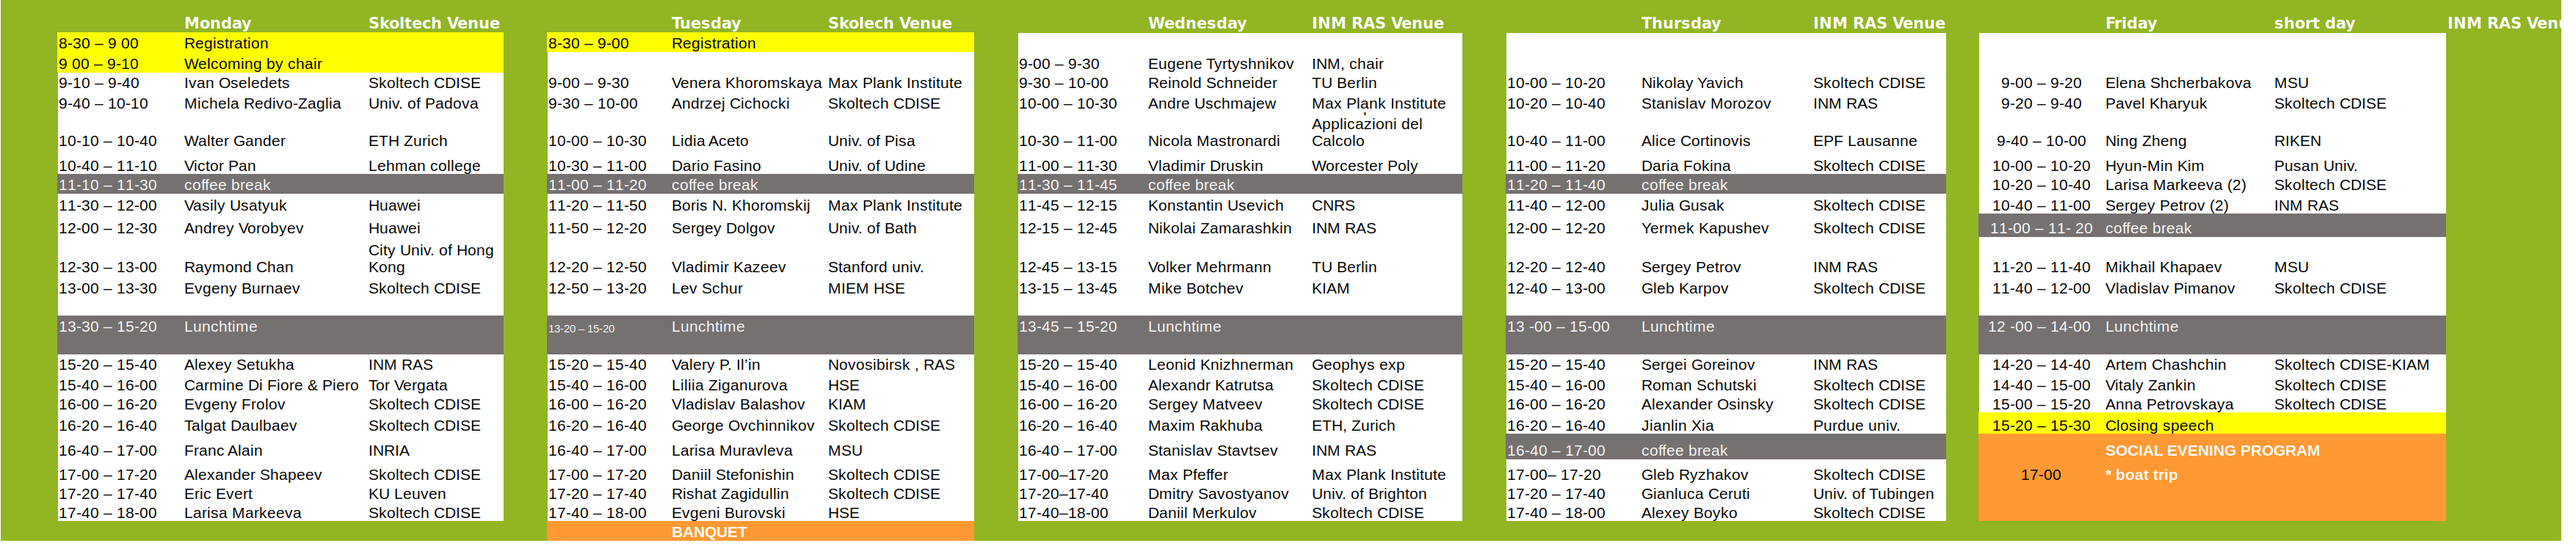
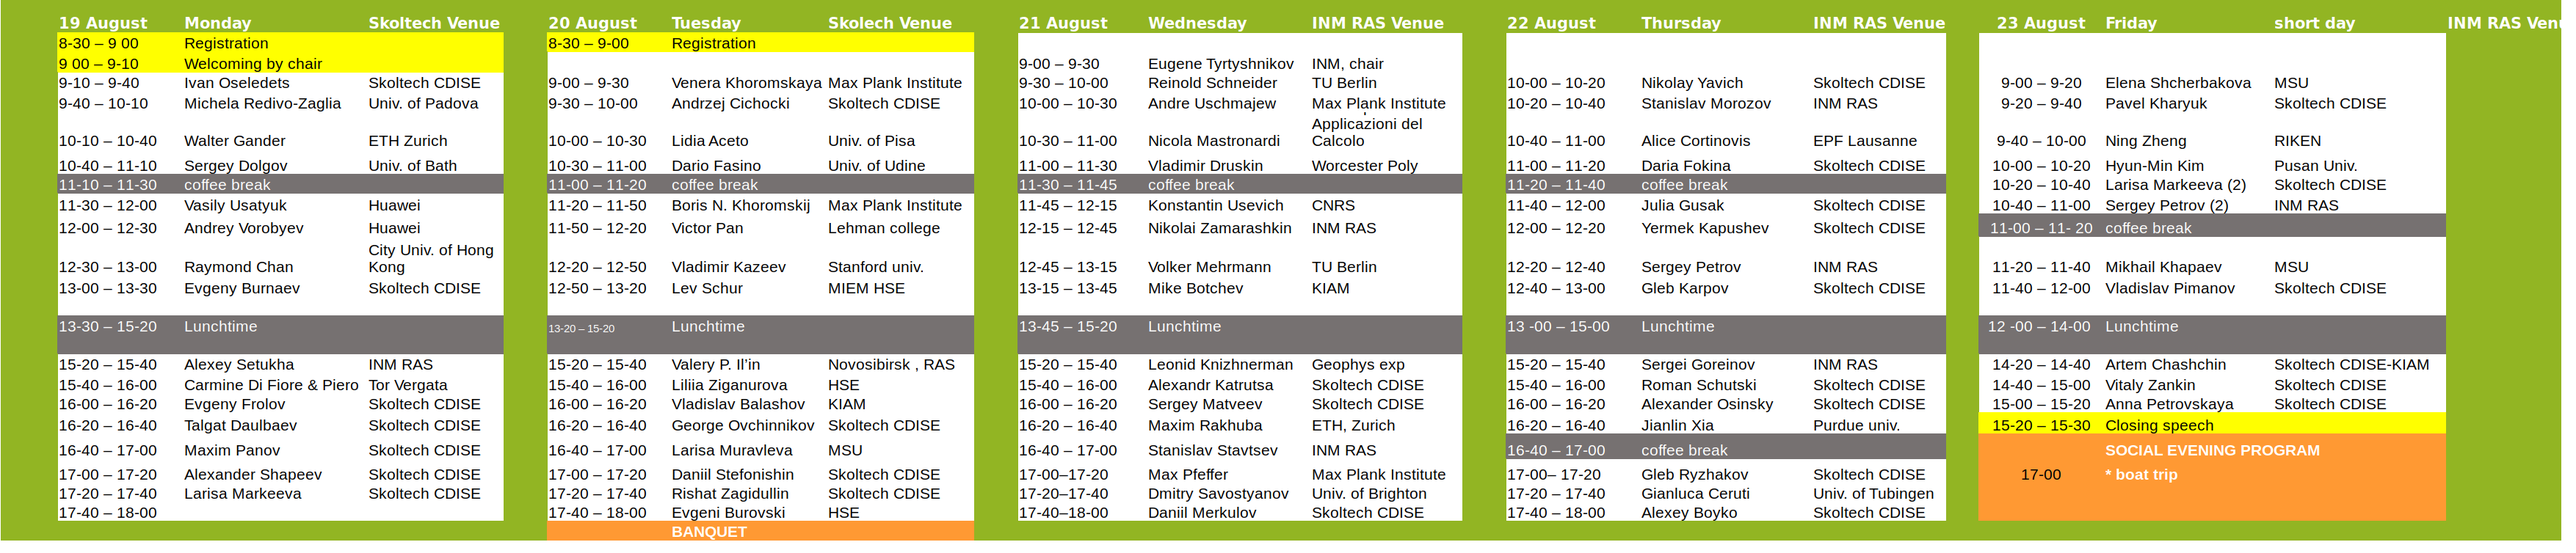
update schedule, find us

diff --git a/mmma-2019/find_us.html b/mmma-2019/find_us.html
@@ -56,9 +56,24 @@
           <p class="text-justify">We have organized for you buses that will take you for free straight to the New Skoltech Campus. Below is the scheme of the meeting point. The address is Kutuzovsky prospect, 38 (Borodinskaya Panorama). Each bus has a sign "Skoltech". Departure time is 9:30. Please do not be late! The buses will take you back to the city after the end of each workshop day according to the schedule.</p>
           <img class="w-100 mt-3 mb-2" src="assets/images/organized_transportation.jpg" alt="organized_transportation"> -->
           <p class="text-justify font-weight-light font-italic mt-5 pt-1">P.S.: Skoltechians can use bus station in the front of the 3 Nobel Street. Skoltech NEW CAMPUS can be reached by using shuttle bus №3.</p>
+          <h4 class="mt-4">Public transport to Skolkovo can be following:</h4>
+          <ul class="mt-5">
+            <li>Transfer buses from Radison-Ukraina depart at 7-30 AM</li>
+            <li>Bus 1147 from Troparevo metro station to Skolkovo innovation center, your stop is "Skoltekh"</li>
+            <li>SK-express from Slavyansky boulevard metro station to Skolkovo innovation center, your stop is "Technopack", then
+              local
+              free shuttle 5 until "Skoltekh" stop</li>
+            <li>Suburb train from Belorusky terminal or Begovaya metro station, your stop should be "Innovation center", then you
+              should
+              go to "Skolkovo Innovation center" direction (not "Trekhgorka") and find free local shuttle 5 until "Skoltekh" stop
+            </li>
+            <li>YandexTaxi and Uber to Skoltech campus can get inside territory of Innovation center. Unfortunately, other taxi
+              services
+              cannot pass inside.</li>
+          </ul>
         </div>
       </div>
-      <a href="https://ivan-kuzmin.github.io" id="signature" class="font-weight-light" target="_blank">Developed by Ivan Kuzmin</a>
+      <!-- <a href="https://ivan-kuzmin.github.io" id="signature" class="font-weight-light" target="_blank">Developed by Ivan Kuzmin</a> -->
     </div>
 
     <!-- Optional JavaScript -->

diff --git a/mmma2019/find_us.html b/mmma2019/find_us.html
@@ -56,9 +56,20 @@
           <p class="text-justify">We have organized for you buses that will take you for free straight to the New Skoltech Campus. Below is the scheme of the meeting point. The address is Kutuzovsky prospect, 38 (Borodinskaya Panorama). Each bus has a sign "Skoltech". Departure time is 9:30. Please do not be late! The buses will take you back to the city after the end of each workshop day according to the schedule.</p>
           <img class="w-100 mt-3 mb-2" src="assets/images/organized_transportation.jpg" alt="organized_transportation"> -->
           <p class="text-justify font-weight-light font-italic mt-5 pt-1">P.S.: Skoltechians can use bus station in the front of the 3 Nobel Street. Skoltech NEW CAMPUS can be reached by using shuttle bus №3.</p>
+          <h4 class="mt-4">Public transport to Skolkovo can be following:</h4>
+          <ul class="mt-5">
+            <li>Transfer buses from Radison-Ukraina depart at 7-30 AM</li>
+            <li>Bus 1147 from Troparevo metro station to Skolkovo innovation center, your stop is "Skoltekh"</li>
+            <li>SK-express from Slavyansky boulevard metro station to Skolkovo innovation center, your stop is "Technopack", then local
+            free shuttle 5 until "Skoltekh" stop</li>
+            <li>Suburb train from Belorusky terminal or Begovaya metro station, your stop should be "Innovation center", then you should
+            go to "Skolkovo Innovation center" direction (not "Trekhgorka") and find free local shuttle 5 until "Skoltekh" stop</li>
+            <li>YandexTaxi and Uber to Skoltech campus can get inside territory of Innovation center. Unfortunately, other taxi services
+            cannot pass inside.</li>
+          </ul>
         </div>
       </div>
-      <a href="https://ivan-kuzmin.github.io" id="signature" class="font-weight-light" target="_blank">Developed by Ivan Kuzmin</a>
+      <!-- <a href="https://ivan-kuzmin.github.io" id="signature" class="font-weight-light" target="_blank">Developed by Ivan Kuzmin</a> -->
     </div>
 
     <!-- Optional JavaScript -->

diff --git a/mmma-2019/index.html b/mmma-2019/index.html
@@ -117,7 +117,7 @@
               <li><strong>Raymond Chan</strong>, City university of Hong Kong</li>
               <!-- <li><strong>In progress...</strong></li> -->
             </ul>
-            <a class="text-dark d-block mylink" href="assets/images/schedule.png" target="_blank">Preliminary schedule, updated August 12</a>
+            <a class="text-dark d-block mylink" href="assets/images/schedule.png" target="_blank">Preliminary schedule, updated August 15</a>
             <a class="text-dark d-block mylink" href="assets/pdf/2019-MMMA_abstracts_book.pdf" target="_blank">Book of abstracts, published on July 31</a>
             <!-- <div class="text-justify mb-3"><strong>+</strong> Faculty members and senior researchers of CDISE (Oseledets, Cichocki)</div>
             <div class="text-justify"><strong>+</strong> Posdocs and PhD students of research Group of Professors:

diff --git a/mmma2019/index.html b/mmma2019/index.html
@@ -117,7 +117,7 @@
               <li><strong>Raymond Chan</strong>, City university of Hong Kong</li>
               <!-- <li><strong>In progress...</strong></li> -->
             </ul>
-            <a class="text-dark d-block mylink" href="assets/images/schedule.png" target="_blank">Preliminary schedule, updated August 12</a>
+            <a class="text-dark d-block mylink" href="assets/images/schedule.png" target="_blank">Preliminary schedule, updated August 15</a>
             <a class="text-dark d-block mylink" href="assets/pdf/2019-MMMA_abstracts_book.pdf" target="_blank">Book of abstracts, published on July 31</a>
             <!-- <div class="text-justify mb-3"><strong>+</strong> Faculty members and senior researchers of CDISE (Oseledets, Cichocki)</div>
             <div class="text-justify"><strong>+</strong> Posdocs and PhD students of research Group of Professors:
